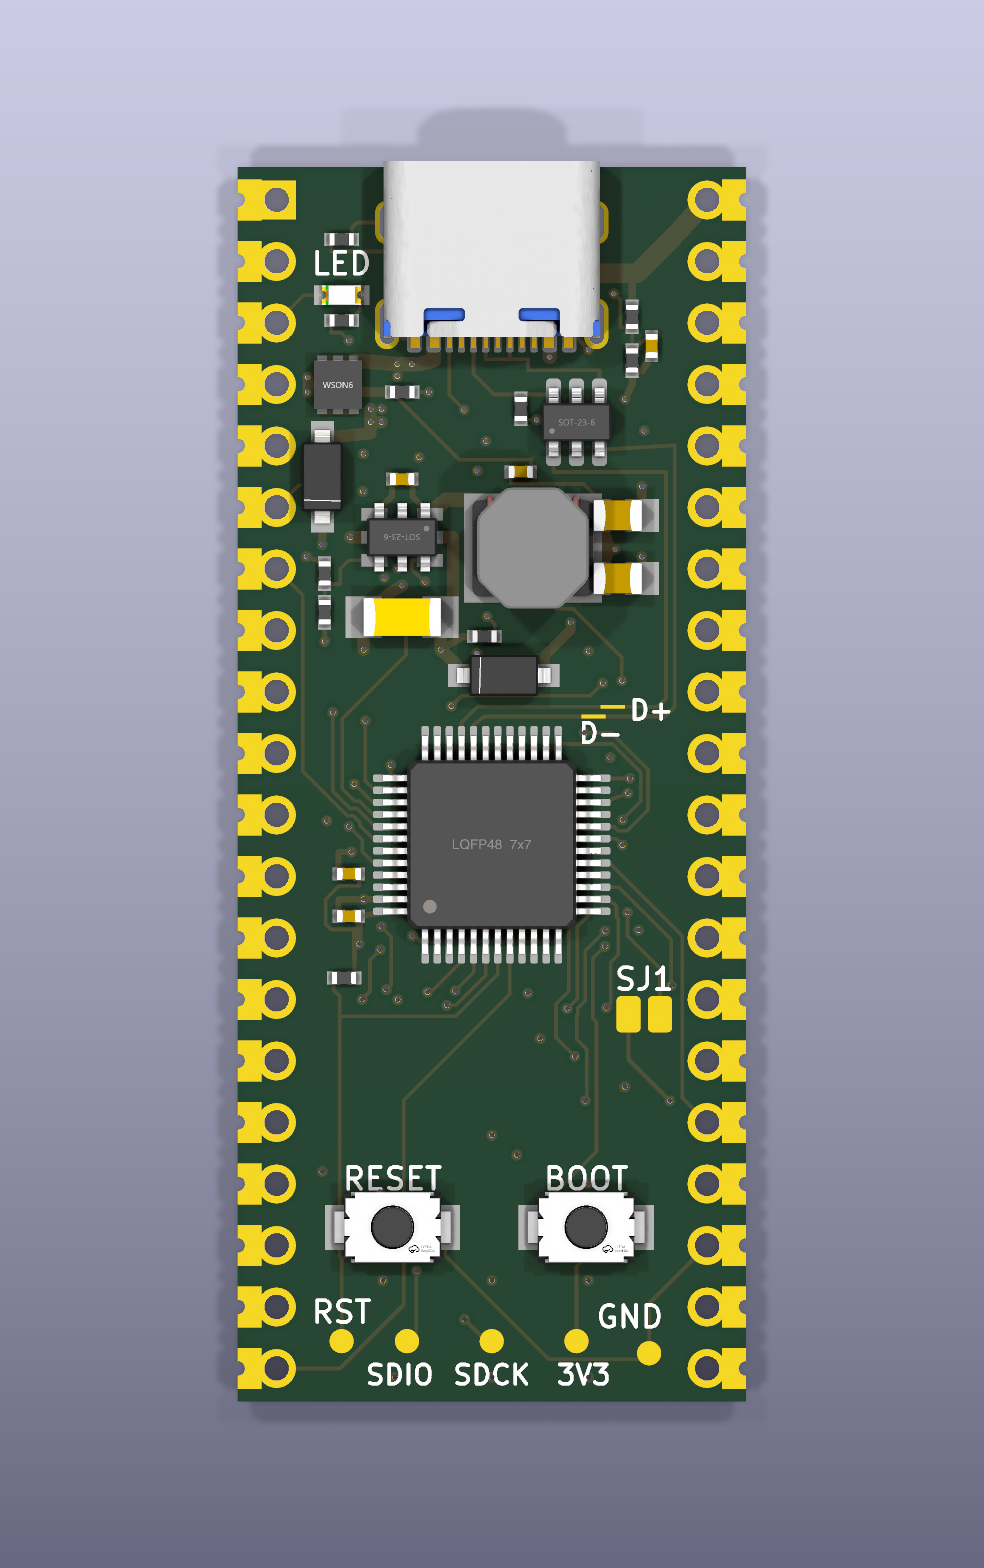
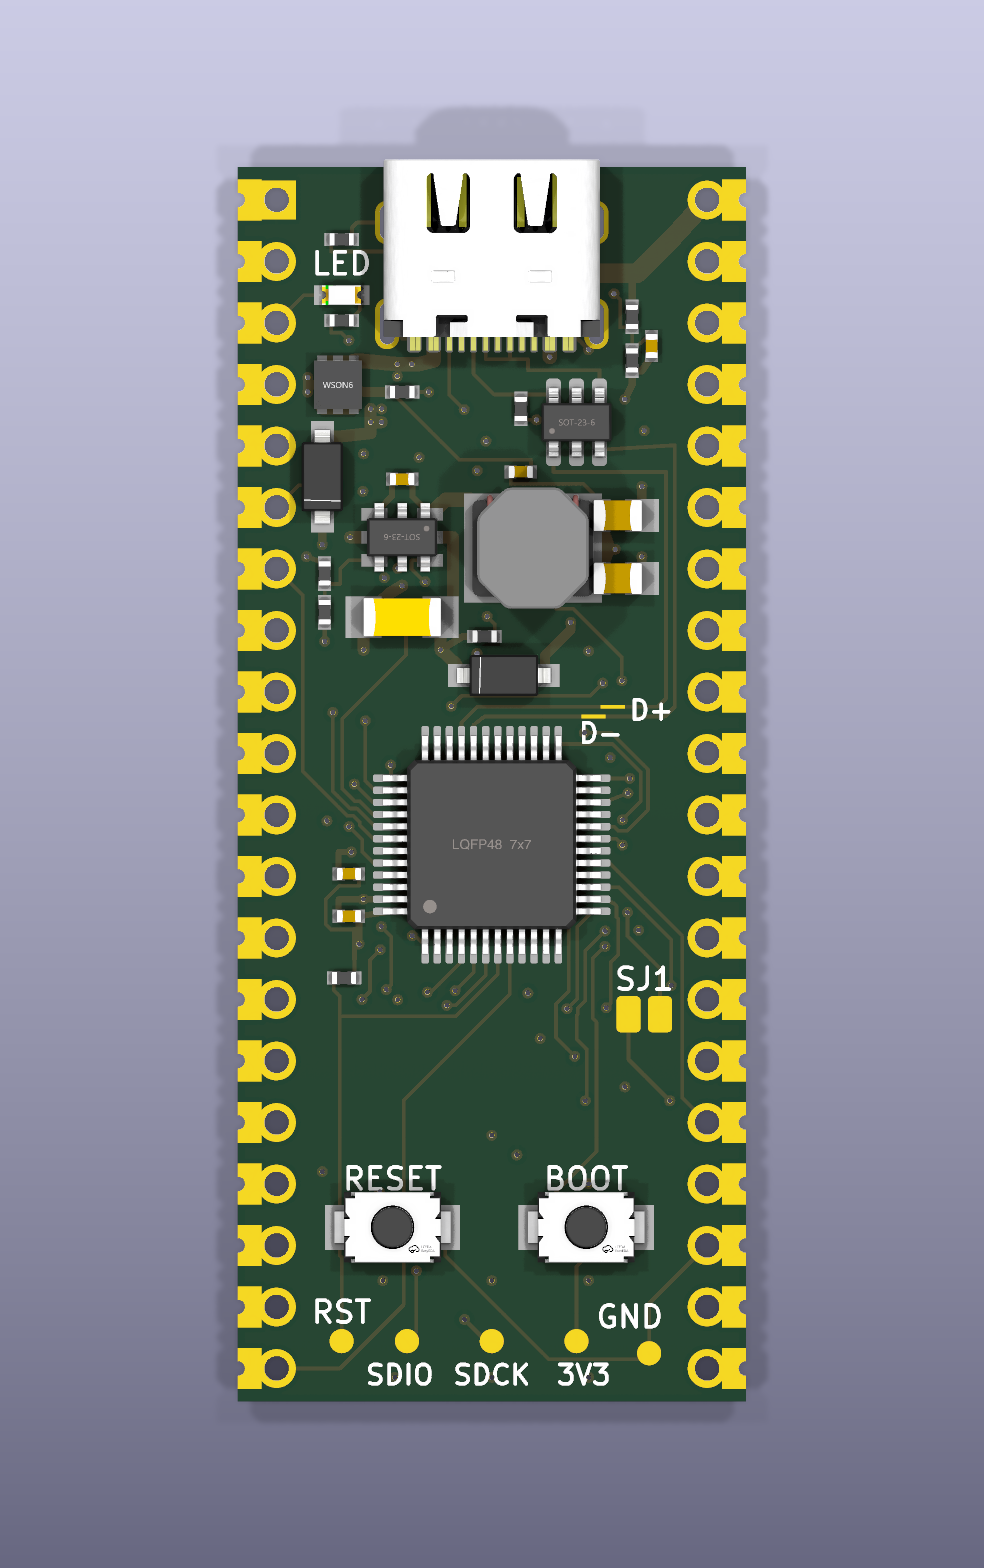
Use the GT-USB-7010ASV USB-C receptacle
The AW variant showed no stock at order time. The ASV (C2988369, 117k
reported, 3 A contacts) is the part our land pattern was drawn from, so the
copper is unchanged; the footprint takes the family name, and the 5 A AN
variant is the approved substitute. The symbol, model frame offset, render
model, mechanical check, procurement snapshot, stock table and cost figures
follow: parts are $2.15 per board at 20.

Changed region(s): [[0.3659, 0.0938, 0.6098, 0.2188]]

diff --git a/hardware/mechanical_checks.py b/hardware/mechanical_checks.py
@@ -8,8 +8,8 @@ checks establish nominal placement only; cable fit requires prototypes.
 import math
 from .sexp import children, one
 
-MPN = 'GT-USB-7010AW'
-DRAWING_URL = 'https://www.lcsc.com/datasheet/C963411.pdf'
+MPN = 'GT-USB-7010ASV'
+DRAWING_URL = 'https://www.lcsc.com/datasheet/lcsc_datasheet_2411221125_G-Switch-GT-USB-7010ASV_C2988369.pdf'
 MATED_GAP_REFERENCE = 1.85
 EDGE_ALLOWANCE = .20
 PLACEMENT_ALLOWANCE = .10
@@ -21,7 +21,7 @@ def usb_fit(doc):
                   for fp in children(doc, 'footprint')}
     fp = footprints['J2']
     props = {p[1]: p[2] for p in children(fp, 'property')}
-    expected = 'USB_C_Receptacle_G-Switch_GT-USB-7010AW'
+    expected = 'USB_C_Receptacle_G-Switch_GT-USB-7010'
     if props.get('Value') != MPN or not str(fp[1]).endswith(expected):
         raise ValueError('USB mechanical model requires the reviewed G-Switch part')
     at = one(fp, 'at')
@@ -52,7 +52,7 @@ def usb_fit(doc):
             raise ValueError('USB shell overlaps a Pico mounting hole')
         holes.append({'center_mm': [hx, hy], 'nominal_shell_clearance_mm': round(clearance, 4),
                       'head_diameter_at_shell_contact_mm': round(2*distance, 4)})
-    return {'part': MPN, 'lcsc': 'C963411', 'drawing': DRAWING_URL,
+    return {'part': MPN, 'lcsc': 'C2988369', 'drawing': DRAWING_URL,
             'mouth_recess_mm': round(front, 4), 'minimum_mated_gap_mm': None,
             'reference_mated_gap_mm': MATED_GAP_REFERENCE,
             'nominal_cable_margin_mm': MATED_GAP_REFERENCE-front,

diff --git a/hardware/circuit.py b/hardware/circuit.py
@@ -56,7 +56,7 @@ COMPONENTS = (
     two('C3','C29277','3V3_OUT','GND','power','22uF / 10V'),
     two('C4','C307331','BUCK_BST','BUCK_SW','power','100nF / 50V'),
     # Native USB. CC pins have independent external Rd, even while MCU is blank.
-    Component('J2','C963411',{'A1B12':'GND','B1A12':'GND',**{str(i):'GND' for i in range(13,17)},'A4B9':'VBUS','B4A9':'VBUS','A5':'CC1','B5':'CC2','A6':'USB_DP','B6':'USB_DP','A7':'USB_DM','B7':'USB_DM','A8':None,'B8':None},'usb',note='G-Switch AW drawing 2023-02-01: 5 A VBUS; qualify cable and assembly fit'),
+    Component('J2','C2988369',{'A1B12':'GND','B1A12':'GND',**{str(i):'GND' for i in range(13,17)},'A4B9':'VBUS','B4A9':'VBUS','A5':'CC1','B5':'CC2','A6':'USB_DP','B6':'USB_DP','A7':'USB_DM','B7':'USB_DM','A8':None,'B8':None},'usb',note='G-Switch GT-USB-7010ASV: 3 A VBUS contacts, equal to the board target; the 5 A AN variant shares the copper; qualify cable and assembly fit'),
     two('R3','C25905','CC1','GND','usb','5.1k'),
     two('R4','C25905','CC2','GND','usb','5.1k'),
     Component('D2','C7519',{'1':'USB_DP','2':'GND','3':'USB_DM','4':'USB_DM','5':'3V3_OUT','6':'USB_DP'},'usb',note='ESD rail is 3.3 V, NEVER negotiated VBUS'),

diff --git a/hardware/jlc_model_frames.py b/hardware/jlc_model_frames.py
@@ -12,7 +12,7 @@ footprints drawn in KiCad's standard conventions or anchored differently:
   delta.
 - C7519 (D2, SOT-23-6): the same top-left versus bottom-left delta against
   SOT-23-6_L2.9-W1.6-P0.95-LS2.8-BL.
-- C963411 (J2, USB-C): JLC's model origin sits 1.345 mm closer to the
+- C2988369 (J2, USB-C): JLC's model origin sits 1.315 mm closer to the
   signal-pad row than our body-center anchor (their pads at local
   -2.37 mm, ours at -3.715 mm), along the footprint's local Y axis.
 
@@ -26,7 +26,8 @@ import math
 FRAME_DELTAS = {
     'C29779902': (-90.0, (0.0, 0.0)),
     'C7519': (-90.0, (0.0, 0.0)),
-    'C963411': (0.0, (0.0, -1.345)),
+    'C2988369': (0.0, (0.0, -1.315)),
+    'C963370': (0.0, (0.0, -1.345)),
 }
 
 

diff --git a/tests/test_mechanical_checks.py b/tests/test_mechanical_checks.py
@@ -10,10 +10,10 @@ from hardware.sexp import parse, children, one
 class CableClearance(unittest.TestCase):
     def fixture(self):
         doc=parse(board(footprint()))
-        usb=parse(Path('hardware/lib/ch32-pico.pretty/USB_C_Receptacle_G-Switch_GT-USB-7010AW.kicad_mod').read_text())
+        usb=parse(Path('hardware/lib/ch32-pico.pretty/USB_C_Receptacle_G-Switch_GT-USB-7010.kicad_mod').read_text())
         for prop in children(usb,'property'):
             if prop[1]=='Reference':prop[2]='J2'
-            if prop[1]=='Value':prop[2]='GT-USB-7010AW'
+            if prop[1]=='Value':prop[2]='GT-USB-7010ASV'
         usb.append(parse('(at 10.5 3.375 180)'))
         doc.append(usb)
         return doc,usb

diff --git a/tests/test_jlc_model_frames.py b/tests/test_jlc_model_frames.py
@@ -13,10 +13,10 @@ class JlcModelFrameTests(unittest.TestCase):
         self.assertEqual(cpl_adjustment('C7519', 90), (0.0, 0.0, 0.0))
 
     def test_usb_connector_anchor_shift(self):
-        rotation, dx, dy = cpl_adjustment('C963411', 180)
+        rotation, dx, dy = cpl_adjustment('C2988369', 180)
         self.assertEqual(rotation, 180.0)
         self.assertAlmostEqual(dx, 0.0)
-        self.assertAlmostEqual(dy, -1.345)
+        self.assertAlmostEqual(dy, -1.315)
 
     def test_frame_clone_footprints_keep_kicad_angles(self):
         # U4 (C2927130) copies JLC's SOT-23-6 frame: no delta, only normalization.

diff --git a/docs/preorder-review.md b/docs/preorder-review.md
@@ -2,14 +2,14 @@
 
 The board has 29 fitted parts and 20 exact part numbers, all on
 the front. Five four-up panels contain 20 devices and 580 fitted placements.
-The fitted-parts estimate is **$2.302 per board**,
-$46.04 for the batch. Fabrication, assembly, attrition, minimum
+The fitted-parts estimate is **$2.145 per board**,
+$42.90 for the batch. Fabrication, assembly, attrition, minimum
 purchases, inspection, shipping and tax are additional. No order or reservation
 has been made. Schematic, routed-board and panel checks pass; matching exports are generated.
 
 ## Stock and purchasing
 
-Observed 2026-10-19T01:47:22 UTC from JLCPCB public product pages.
+Observed 2026-10-19T01:54:16 UTC from JLCPCB public product pages.
 These are dated catalog observations, not reservations, stock history or
 confirmed assembly allocations. One observation cannot establish regular high
 availability. LCSC stock was not independently rechecked in this snapshot.
@@ -27,29 +27,29 @@ is a separate purchasing route and is not applied to ordinary assembly here.
 
 | Exact part | Per board | Provisional batch quantity | Reported stock | Shortfall |
 |---|---:|---:|---:|---:|
-| [C11702](https://jlcpcb.com/partdetail/C11702) / 0402WGF1001TCE | 1 | 30 | 21,589,640 | 0 |
-| [C13585](https://jlcpcb.com/partdetail/C13585) / CL31A106KBHNNNE | 1 | 24 | 2,259,716 | 0 |
-| [C2286](https://jlcpcb.com/partdetail/C2286) / KT-0603R | 1 | 30 | 8,537,266 | 0 |
-| [C25741](https://jlcpcb.com/partdetail/C25741) / 0402WGF1003TCE | 2 | 50 | 9,245,555 | 0 |
-| [C25744](https://jlcpcb.com/partdetail/C25744) / 0402WGF1002TCE | 2 | 50 | 20,913,011 | 0 |
-| [C25756](https://jlcpcb.com/partdetail/C25756) / 0402WGF1502TCE | 1 | 30 | 1,979,088 | 0 |
-| [C25792](https://jlcpcb.com/partdetail/C25792) / 0402WGF4702TCE | 1 | 30 | 6,987,161 | 0 |
-| [C25900](https://jlcpcb.com/partdetail/C25900) / 0402WGF4701TCE | 1 | 30 | 15,890,633 | 0 |
-| [C25905](https://jlcpcb.com/partdetail/C25905) / 0402WGF5101TCE | 2 | 50 | 5,071,735 | 0 |
+| [C11702](https://jlcpcb.com/partdetail/C11702) / 0402WGF1001TCE | 1 | 30 | 21,587,025 | 0 |
+| [C13585](https://jlcpcb.com/partdetail/C13585) / CL31A106KBHNNNE | 1 | 24 | 2,259,548 | 0 |
+| [C2286](https://jlcpcb.com/partdetail/C2286) / KT-0603R | 1 | 30 | 8,536,324 | 0 |
+| [C25741](https://jlcpcb.com/partdetail/C25741) / 0402WGF1003TCE | 2 | 50 | 9,244,321 | 0 |
+| [C25744](https://jlcpcb.com/partdetail/C25744) / 0402WGF1002TCE | 2 | 50 | 20,911,553 | 0 |
+| [C25756](https://jlcpcb.com/partdetail/C25756) / 0402WGF1502TCE | 1 | 30 | 1,978,954 | 0 |
+| [C25792](https://jlcpcb.com/partdetail/C25792) / 0402WGF4702TCE | 1 | 30 | 6,987,041 | 0 |
+| [C25900](https://jlcpcb.com/partdetail/C25900) / 0402WGF4701TCE | 1 | 30 | 15,886,384 | 0 |
+| [C25905](https://jlcpcb.com/partdetail/C25905) / 0402WGF5101TCE | 2 | 50 | 5,071,155 | 0 |
 | [C2927130](https://jlcpcb.com/partdetail/C2927130) / SY8301ABC | 1 | 20 | 20,104 | 0 |
 | [C29277](https://jlcpcb.com/partdetail/C29277) / CL21A226MPQNNNE | 2 | 48 | 120,308 | 0 |
 | [C29779902](https://jlcpcb.com/partdetail/C29779902) / CH32X035C8T6 | 1 | 20 | 1,082 | 0 |
-| [C307331](https://jlcpcb.com/partdetail/C307331) / CL05B104KB54PNC | 4 | 90 | 23,859,153 | 0 |
+| [C2988369](https://jlcpcb.com/partdetail/C2988369) / GT-USB-7010ASV | 1 | 22 | 117,114 | 0 |
+| [C307331](https://jlcpcb.com/partdetail/C307331) / CL05B104KB54PNC | 4 | 90 | 23,857,783 | 0 |
 | [C48496](https://jlcpcb.com/partdetail/C48496) / SWPA5040S4R7MT | 1 | 24 | 7,243 | 0 |
 | [C49234124](https://jlcpcb.com/partdetail/C49234124) / HX 3x4x2-2P-1.6N TACTILE SWITCH | 2 | 45 | 197,128 | 0 |
 | [C523793](https://jlcpcb.com/partdetail/C523793) / TVS2200DRVR | 1 | 20 | 1,349 | 0 |
-| [C52923](https://jlcpcb.com/partdetail/C52923) / CL05A105KA5NQNC | 1 | 30 | 8,981,887 | 0 |
-| [C7519](https://jlcpcb.com/partdetail/C7519) / USBLC6-2SC6 | 1 | 22 | 33,151 | 0 |
-| [C8598](https://jlcpcb.com/partdetail/C8598) / B5819W SL | 2 | 48 | 598,094 | 0 |
-| [C963411](https://jlcpcb.com/partdetail/C963411) / GT-USB-7010AW | 1 | 20 | 1,099 | 0 |
+| [C52923](https://jlcpcb.com/partdetail/C52923) / CL05A105KA5NQNC | 1 | 30 | 8,978,637 | 0 |
+| [C7519](https://jlcpcb.com/partdetail/C7519) / USBLC6-2SC6 | 1 | 22 | 33,146 | 0 |
+| [C8598](https://jlcpcb.com/partdetail/C8598) / B5819W SL | 2 | 48 | 598,051 | 0 |
 
-This provisional parts scenario is $48.78, or
-$2.44 per device, before the excluded costs above.
+This provisional parts scenario is $45.81, or
+$2.29 per device, before the excluded costs above.
 The machine-readable observations are in
 [procurement-observation.json](../hardware/procurement-observation.json).
 `just cost-review` and `just order-review` regenerate the detailed estimates.

diff --git a/docs/factory-review.md b/docs/factory-review.md
@@ -1,6 +1,6 @@
 # Parts and factory review
 
-The board has 29 fitted parts, 20 part numbers and a $2.30 parts-only
+The board has 29 fitted parts, 20 part numbers and a $2.15 parts-only
 estimate at 20 boards. Pin 40 is direct USB VBUS. The
 [pre-order review](preorder-review.md) contains the 2026-10-19 stock table and
 cost assumptions. Every part shows stock for the batch; none is reserved.
@@ -56,7 +56,8 @@ parts, and inspect the hidden pad joint by X-ray.
 
 The orientation guide identifies U1/U4/D2/D5 pin 1, D1/D4 cathodes at pin 1,
 D3 cathode at pin 2, reset/boot contacts and USB mouth direction. The USB part
-must remain GT-USB-7010AW, with its four plated shell stakes and two locating
+must remain GT-USB-7010ASV (or the 5 A AN variant on the same land pattern),
+with its four plated shell stakes and two locating
 holes. JLC must confirm insertion, shell soldering, reflow compatibility and
 any pallet. The corner tab clears the nominal socket, but manufacturing and
 placement tolerances still require review. Unused header holes must stay open.
@@ -67,7 +68,7 @@ and [Standard PCBA fiducial guidance](https://jlcpcb.com/help/article/how-to-add
 
 ## Costs
 
-The dated planning scenario is $117.21 for the 20-board batch ($5.86 per
+The dated planning scenario is $114.25 for the 20-board batch ($5.71 per
 board), including provisional component attrition and modeled assembly costs
 but excluding PCB fabrication and other quoted services, shipping and tax. See
 [order review](order-review.md). The

diff --git a/hardware/lib/README.md b/hardware/lib/README.md
@@ -19,10 +19,11 @@ value labels.
   on the KiCad LQFP-48 7 × 7 mm land pattern. USBLC6-2SC6, C7519, uses the
   KiCad SOT-23-6 pattern. `scripts/prepare_footprints.py` vendors those
   patterns and moves imported legends to fabrication layers.
-- GT-USB-7010AW USB-C receptacle, C963411. Its footprint follows the
-  manufacturer drawing. The AW drawing specifies 5 A on VBUS. Its SMT row
-  has a 50 µm tailward adjustment within the manufacturer's land-pattern
-  tolerance to clear the locating holes. The socket mouth sits 0.30 mm beyond
+- GT-USB-7010ASV USB-C receptacle, C2988369, rated 3 A on VBUS. The
+  `USB_C_Receptacle_G-Switch_GT-USB-7010` land pattern follows the ASV
+  drawing; its SMT row has a 50 µm tailward adjustment within the
+  manufacturer's tolerance to clear the locating holes, and the 5 A AN and
+  AW variants (C963370, C963411) fit it too. The socket mouth sits 0.30 mm beyond
   the short board edge; there are no Pico mounting holes.
 - TVS2200DRVR, C523793, WSON-6 with exposed ground pad. Imported with
   easyeda2kicad; model removed, legends moved to F.Fab and courtyard expanded

diff --git a/docs/manufacturing.md b/docs/manufacturing.md
@@ -17,7 +17,7 @@ Five panels contain four devices each, for twenty devices total.
 | `hardware/review/ch32-pico.kicad_pcb` | Checked single-board KiCad source |
 | `build/panel-preview/ch32-pico-panel.kicad_pcb` | Generated four-copy KiKit panel |
 
-The fitted BOM estimate is $2.302 per device at twenty devices, before
+The fitted BOM estimate is $2.145 per device at twenty devices, before
 attrition, purchase minimums, PCB fabrication, assembly, shipping and tax.
 The latest dated breakdown and stock shortages are in [order review](order-review.md).
 No order has been submitted and no parts are reserved.

diff --git a/docs/design.md b/docs/design.md
@@ -6,7 +6,7 @@ USB-C, RESET and BOOT sit together at the bottom, and the back carries LEFT
 SHIFT LOGICAL branding. All 29 fitted parts are on the front. The board has
 four copper layers and exposes 37 GPIOs.
 
-The dated parts-only estimate is $2.30 per device for 20 devices. This
+The dated parts-only estimate is $2.15 per device for 20 devices. This
 excludes fabrication, assembly setup/feeders, attrition, minimum purchases,
 shipping and tax. The saved layout has zero DRC violations and zero
 unconnected nets, and all regression tests pass. Matching panel and

diff --git a/docs/order-review.md b/docs/order-review.md
@@ -37,8 +37,8 @@ JLC04101H-3313 quote before ordering.
 
 | Batch | Panels | Fitted parts per board | Partial parts + assembly per board | Partial batch |
 |---|---:|---:|---:|---:|
-| 20 boards | 5 | $2.3020 | $5.8605 | $117.21 |
-| 100 boards | 25 | $1.8728 | $2.7422 | $274.22 |
+| 20 boards | 5 | $2.1450 | $5.7123 | $114.25 |
+| 100 boards | 25 | $1.7486 | $2.6195 | $261.95 |
 
 Both use the 2026-10-19 exact fitted-part price snapshot and the published
 Standard PCBA fee assumptions. The partial totals include provisional attrition,
